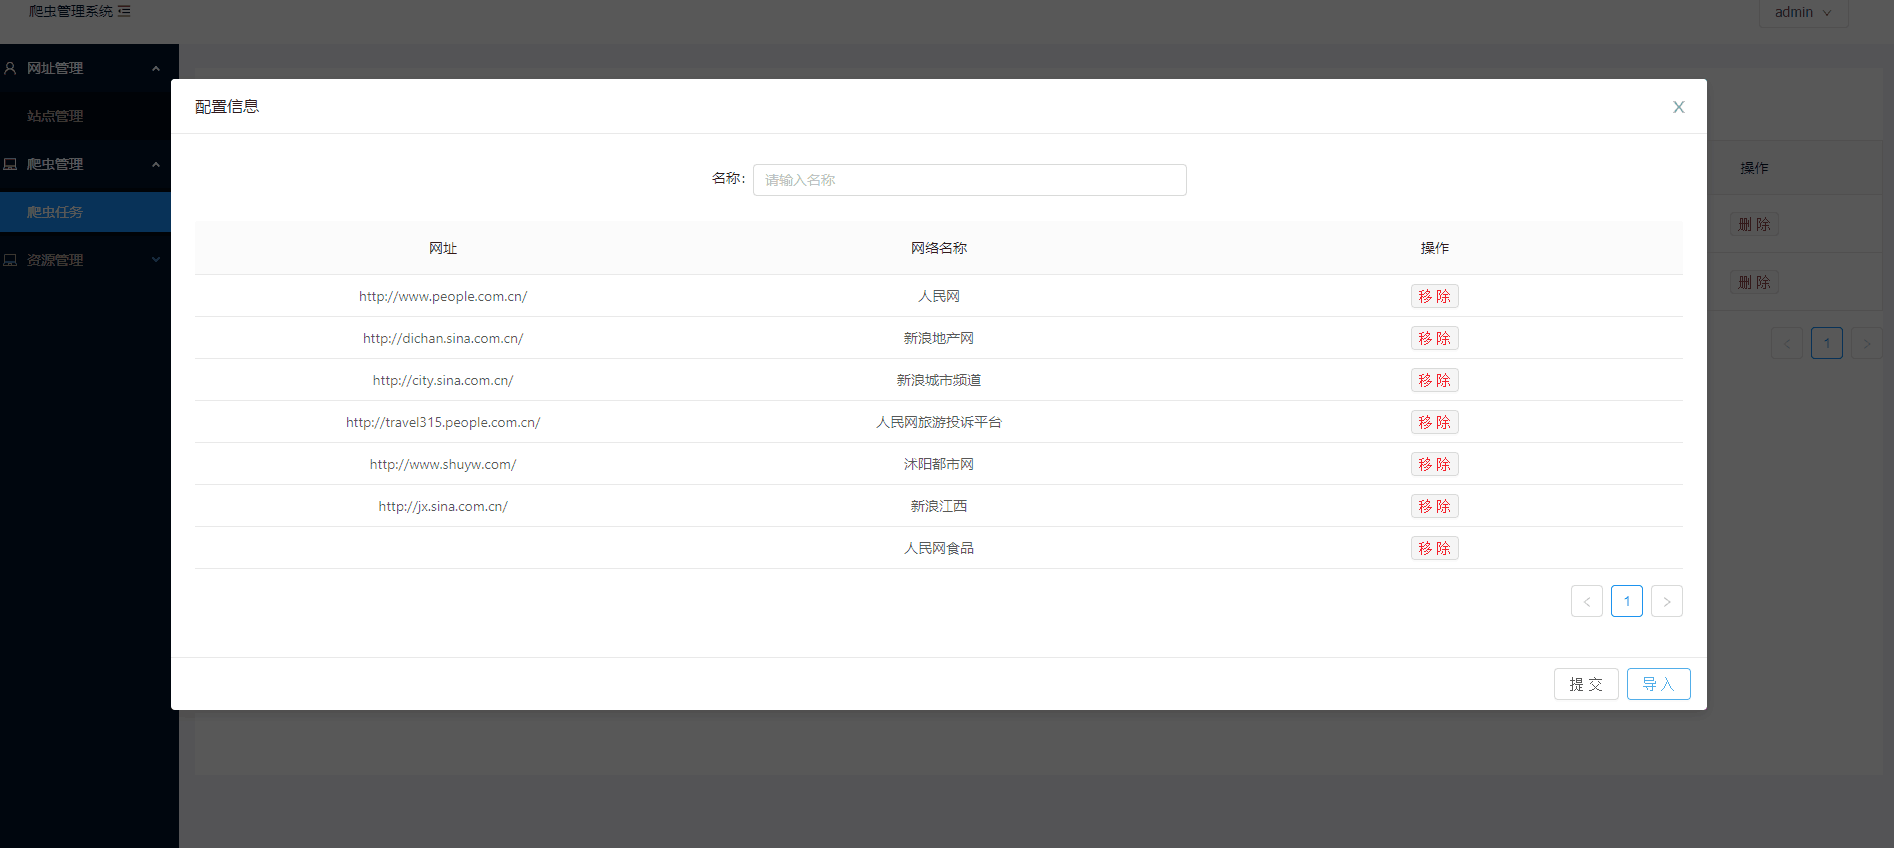
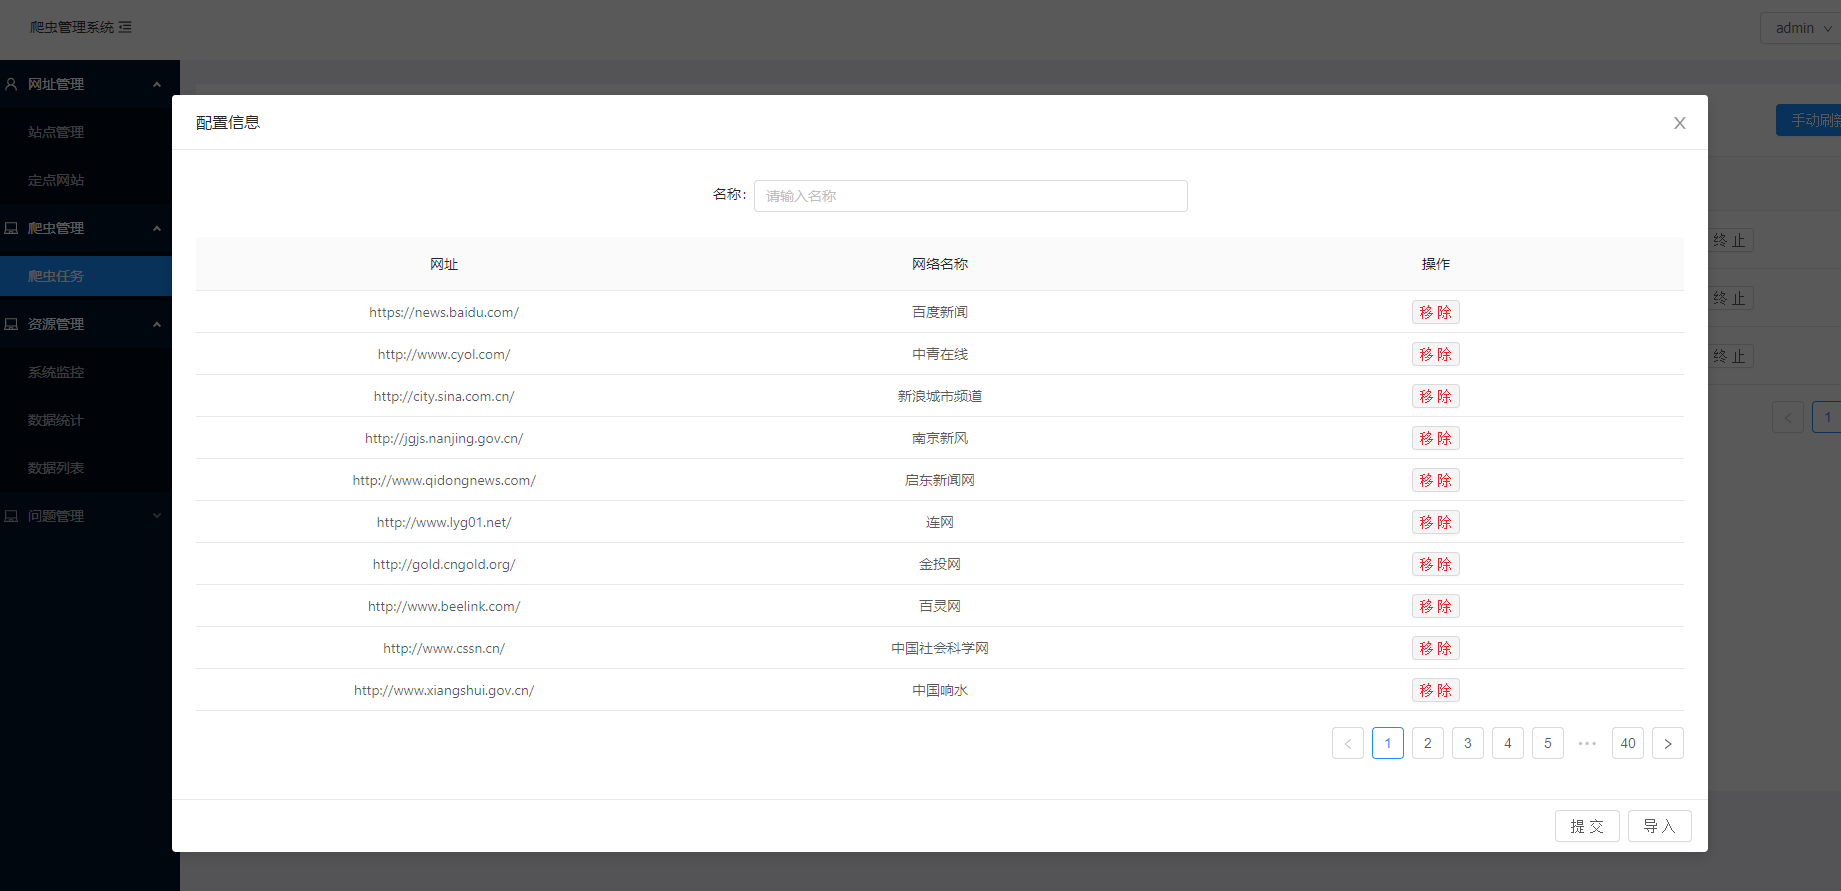
重构

diff --git a/README.md b/README.md
@@ -23,15 +23,26 @@
 网站列表
 ![Image text](https://raw.githubusercontent.com/Snailwicked/spider_manage/master/images/weblist.png)
 
-网址配置表
+配置信息
 ![Image text](https://raw.githubusercontent.com/Snailwicked/spider_manage/master/images/config.png)
 
-网站导入爬虫引擎
+
+数据采集引擎
+![Image text](https://raw.githubusercontent.com/Snailwicked/spider_manage/master/images/spider_engine.png)
+
+
+网站导入数据采集引擎
 ![Image text](https://raw.githubusercontent.com/Snailwicked/spider_manage/master/images/import.png)
 
 系统监控图
 ![Image text](https://raw.githubusercontent.com/Snailwicked/spider_manage/master/images/monitor.png)
 
+
+数据展示列表
+![Image text](https://raw.githubusercontent.com/Snailwicked/spider_manage/master/images/newslist.png)
+
+详情数据图
+![Image text](https://raw.githubusercontent.com/Snailwicked/spider_manage/master/images/detailed.png)
 ## 相关技术
 
 - flask
